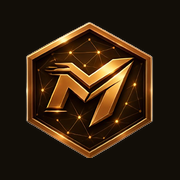
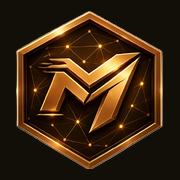
add app animation

diff --git a/style.css b/style.css
@@ -184,3 +184,18 @@ ol.steps li{margin:6px 0}
 label.pick{display:flex;align-items:center;gap:12px;background:#120e07;border:1px solid var(--line);border-radius:12px;padding:10px 12px;min-height:48px}
 label.pick input{width:22px;height:22px;accent-color:#f5c04a;flex:none}
 label.pick.dis{opacity:.45}
+
+/* v1.3 start animation */
+#splash{position:fixed;inset:0;z-index:200;background:radial-gradient(circle at 50% 42%,#2a1d0a 0%,#0d0a06 62%);
+  display:flex;flex-direction:column;align-items:center;justify-content:center;gap:16px;animation:splashOut .45s ease 1.5s forwards}
+#splash img{width:min(64vw,290px);height:auto;opacity:0;transform:scale(.55) rotate(-6deg);
+  animation:logoIn .85s cubic-bezier(.2,1.25,.4,1) .05s forwards,logoGlow 1.2s ease-in-out .6s}
+#splash .bar{display:block;width:min(46vw,210px);height:3px;border-radius:3px;background:linear-gradient(90deg,transparent,#f5c04a,transparent);
+  transform:scaleX(0);animation:barGrow .9s ease .45s forwards}
+#splash .tag{font-size:12px;font-weight:600;letter-spacing:4px;color:var(--gold);opacity:0;transform:translateY(8px);animation:fadeUp .5s ease .75s forwards}
+@keyframes logoIn{to{opacity:1;transform:scale(1) rotate(0)}}
+@keyframes logoGlow{0%,100%{filter:drop-shadow(0 0 0 rgba(245,192,74,0)) brightness(1)}50%{filter:drop-shadow(0 0 26px rgba(245,192,74,.75)) brightness(1.25)}}
+@keyframes fadeUp{to{opacity:1;transform:none}}
+@keyframes barGrow{to{transform:scaleX(1)}}
+@keyframes splashOut{to{opacity:0;visibility:hidden}}
+@media (prefers-reduced-motion:reduce){#splash{display:none}}

diff --git a/app.js b/app.js
@@ -4,7 +4,7 @@
 'use strict';
 
 /* ============ helpers ============ */
-const APP_VERSION = '1.2.0';
+const APP_VERSION = '1.3.0';
 const TZ = 'Asia/Kuala_Lumpur';
 const DB_NAME = 'mt-attendance', STORE = 'kv', KEY = 'data';
 const MONTHS = ['January','February','March','April','May','June','July','August','September','October','November','December'];
@@ -1081,6 +1081,8 @@ function showUpdate() {
   data = await loadData(); migrate();
   try { if (navigator.storage && navigator.storage.persist) navigator.storage.persist(); } catch (e) { /* ignore */ }
   render(false);
+  const splash = $('#splash');
+  if (splash) { splash.addEventListener('click', () => splash.remove()); setTimeout(() => splash.remove(), 2200); }
   if ('serviceWorker' in navigator && location.protocol !== 'file:') {
     const had = !!navigator.serviceWorker.controller;
     navigator.serviceWorker.addEventListener('controllerchange', () => { if (had) showUpdate(); });

diff --git a/sw.js b/sw.js
@@ -3,7 +3,7 @@
 // Every request asks the server "is there a newer copy?" and skips the browser's own cache,
 // so a new version shows up on the phone right after it is on GitHub.
 // When you change any app file, bump CACHE_VERSION so phones refresh their copy.
-const CACHE_VERSION = 'mt-attendance-v4';
+const CACHE_VERSION = 'mt-attendance-v5';
 const CORE = [
   './',
   'index.html',

diff --git a/index.html b/index.html
@@ -13,6 +13,7 @@
   <link rel="stylesheet" href="style.css">
 </head>
 <body>
+  <div id="splash" aria-hidden="true"><img src="logo.png" alt=""><i class="bar"></i><div class="tag">TAEKWONDO ATTENDANCE</div></div>
   <div id="app"></div>
   <div id="modal-root"></div>
   <div id="toast" role="status" aria-live="polite"></div>
